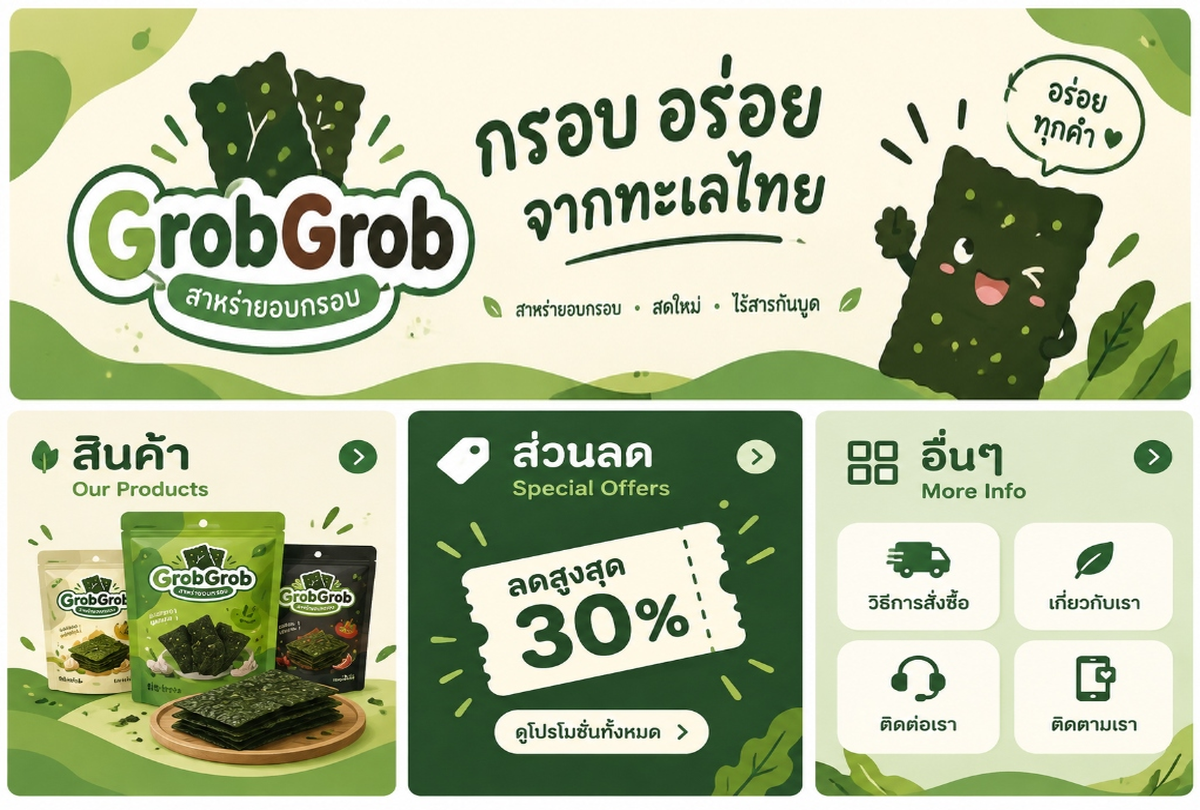
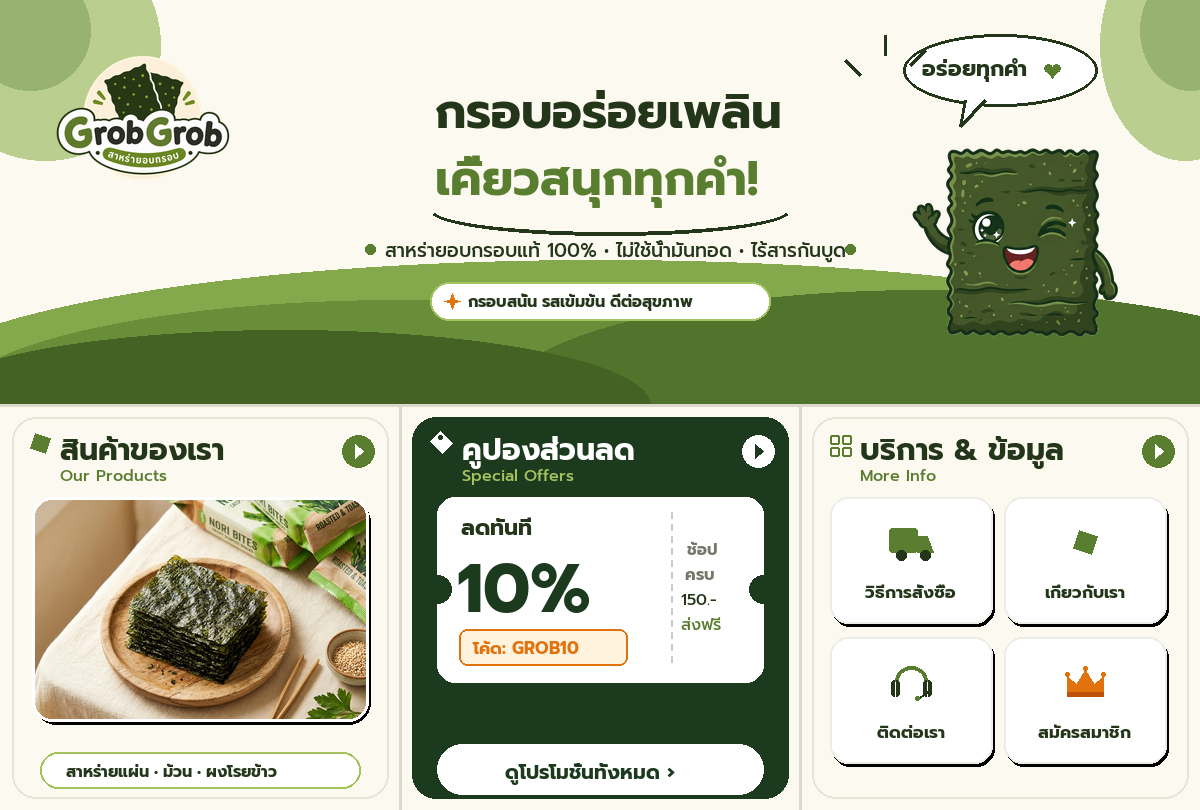
Create brand new LINE Rich Menu 1200x810 from scratch matching website slogans and organic mascot theme

diff --git a/build_richmenu.py b/build_richmenu.py
@@ -1,50 +1,320 @@
 import os
-from PIL import Image
+import math
+from PIL import Image, ImageDraw, ImageFont, ImageFilter, ImageOps
 
-def build_theme_rich_menu():
+def draw_vector_heart(draw, cx, cy, size, fill):
+    # Draw smooth vector heart
+    r = size // 2
+    draw.ellipse([cx - size, cy - r, cx, cy + r], fill=fill)
+    draw.ellipse([cx, cy - r, cx + size, cy + r], fill=fill)
+    draw.polygon([(cx - size + 2, cy + 2), (cx + size - 2, cy + 2), (cx, cy + size + 2)], fill=fill)
+
+def draw_vector_sparkle(draw, cx, cy, size, fill):
+    # Draw 4-point sparkle star
+    draw.polygon([
+        (cx, cy - size), (cx + size//4, cy - size//4),
+        (cx + size, cy), (cx + size//4, cy + size//4),
+        (cx, cy + size), (cx - size//4, cy + size//4),
+        (cx - size, cy), (cx - size//4, cy - size//4)
+    ], fill=fill)
+
+def draw_smooth_leaf(draw, cx, cy, size, fill):
+    # Beautiful organic leaf
+    draw.polygon([
+        (cx - size, cy + size//2), (cx - size//2, cy - size),
+        (cx + size, cy - size//2), (cx + size//2, cy + size)
+    ], fill=fill)
+    draw.ellipse([cx - size//2, cy - size//2, cx + size//2, cy + size//2], fill=fill)
+
+def build_scratch_rich_menu():
     W, H = 1200, 810
     SPLIT_Y = 405
     
-    ref_path = r"C:\Users\noobz\.gemini\antigravity-ide\brain\afa6fe71-4bfc-426f-acff-7b1e4c3b699b\.user_uploaded\media_1790221043604.jpg"
-    if not os.path.exists(ref_path):
-        print(f"Reference image not found at {ref_path}")
-        return
+    # Palette (Warm Organic Seaweed Aesthetic)
+    C_CREAM_BG     = (252, 249, 240, 255)  # #FCF9F0 Warm paper cream
+    C_WHITE        = (255, 255, 255, 255)
+    C_DARK_OLIVE   = (35, 54, 25, 255)     # #233619 Primary deep text
+    C_DEEP_FOREST  = (28, 58, 30, 255)     # #1C3A1E Deep green for Box C
+    C_LEAF_GREEN   = (90, 126, 48, 255)    # #5A7E30 Vibrant leaf green
+    C_LIGHT_GREEN  = (164, 195, 94, 255)   # #A4C35E Accent green
+    C_SOFT_GREEN   = (230, 242, 212, 255)  # #E6F2D4 Soft green fill
+    C_AMBER        = (225, 115, 15, 255)   # #E1730F Promo orange
+    C_AMBER_SOFT   = (255, 243, 222, 255)
+    C_MUTED        = (115, 120, 105, 255)
+    C_DIVIDER      = (220, 216, 204, 255)
+
+    # Fonts
+    font_dir = "temp_fonts"
+    f_hero_title = ImageFont.truetype(os.path.join(font_dir, "Prompt-Bold.ttf"), 48)
+    f_hero_sub   = ImageFont.truetype(os.path.join(font_dir, "Prompt-Medium.ttf"), 19)
+    f_bubble     = ImageFont.truetype(os.path.join(font_dir, "Prompt-Bold.ttf"), 22)
+    
+    f_card_title = ImageFont.truetype(os.path.join(font_dir, "Prompt-Bold.ttf"), 30)
+    f_card_sub   = ImageFont.truetype(os.path.join(font_dir, "Prompt-Medium.ttf"), 16)
+    f_btn        = ImageFont.truetype(os.path.join(font_dir, "Prompt-Bold.ttf"), 20)
+    f_badge      = ImageFont.truetype(os.path.join(font_dir, "Prompt-Bold.ttf"), 16)
+    f_tile_lbl   = ImageFont.truetype(os.path.join(font_dir, "Prompt-Bold.ttf"), 17)
+    
+    f_ticket_big = ImageFont.truetype(os.path.join(font_dir, "Prompt-Bold.ttf"), 68)
+    f_ticket_md  = ImageFont.truetype(os.path.join(font_dir, "Prompt-Bold.ttf"), 22)
+
+    # Base Canvas
+    canvas = Image.new("RGBA", (W, H), C_CREAM_BG)
+    draw = ImageDraw.Draw(canvas)
+
+    # =============================================================
+    # 1. SECTION A: Top Banner (1200 x 405)
+    # =============================================================
+    top_bg = Image.new("RGBA", (W, SPLIT_Y), (0, 0, 0, 0))
+    d_top = ImageDraw.Draw(top_bg)
+
+    # Rolling organic green hills at bottom of Section A
+    d_top.ellipse([-100, 260, 1300, 520], fill=(132, 168, 76, 255))
+    d_top.ellipse([-50, 300, 850, 510], fill=(105, 142, 58, 255))
+    d_top.ellipse([500, 290, 1350, 510], fill=(80, 116, 44, 255))
+    d_top.ellipse([-80, 330, 650, 480], fill=(68, 98, 36, 255))
+
+    # Corner decorative leaves / foliage blobs
+    d_top.ellipse([-70, -70, 160, 160], fill=(145, 180, 85, 160))
+    d_top.ellipse([-30, -30, 90, 90], fill=(110, 150, 60, 180))
+    d_top.ellipse([1100, -70, 1270, 160], fill=(145, 180, 85, 160))
+    d_top.ellipse([1140, -30, 1240, 90], fill=(110, 150, 60, 180))
+
+    canvas.alpha_composite(top_bg, (0, 0))
+    draw = ImageDraw.Draw(canvas)
+
+    # --- Official GrobGrob Logo on the Left ---
+    logo_path = "assets/logo.png"
+    if os.path.exists(logo_path):
+        logo_im = Image.open(logo_path).convert("RGBA")
+        bbox = logo_im.getbbox()
+        if bbox:
+            logo_im = logo_im.crop(bbox)
+        lw, lh = logo_im.size
+        target_lh = 135
+        target_lw = int(lw * (target_lh / lh))
+        logo_im = logo_im.resize((target_lw, target_lh), Image.Resampling.LANCZOS)
+        canvas.paste(logo_im, (45, 50), logo_im)
+
+    # --- Slogans in Center (Exact from Website) ---
+    draw.text((435, 75), "กรอบอร่อยเพลิน", font=f_hero_title, fill=C_DARK_OLIVE)
+    draw.text((435, 142), "เคี้ยวสนุกทุกคำ!", font=f_hero_title, fill=C_LEAF_GREEN)
+
+    # Decorative brush underline under slogan
+    draw.arc([430, 185, 790, 235], start=10, end=170, fill=C_DARK_OLIVE, width=4)
+
+    # Website USP Tagline
+    draw.text((385, 236), "สาหร่ายอบกรอบแท้ 100% • ไม่ใช้น้ำมันทอด • ไร้สารกันบูด", font=f_hero_sub, fill=C_DARK_OLIVE)
+    draw.ellipse([365, 244, 375, 254], fill=C_LEAF_GREEN)
+    draw.ellipse([845, 244, 855, 254], fill=C_LEAF_GREEN)
+
+    # Feature Pill Badge
+    badge_w, badge_h = 340, 38
+    badge_x, badge_y = 430, 282
+    draw.rounded_rectangle([badge_x, badge_y, badge_x + badge_w, badge_y + badge_h], radius=19, fill=C_WHITE, outline=C_LIGHT_GREEN, width=2)
+    draw_vector_sparkle(draw, badge_x + 22, badge_y + 19, 8, C_AMBER)
+    draw.text((badge_x + 38, badge_y + 7), "กรอบสนั่น รสเข้มข้น ดีต่อสุขภาพ", font=f_badge, fill=C_DARK_OLIVE)
+
+    # --- Mascot on the Right ---
+    mascot_path = "assets/mascot_transparent.png"
+    if os.path.exists(mascot_path):
+        m_im = Image.open(mascot_path).convert("RGBA")
+        mw, mh = m_im.size
+        target_mh = 275
+        target_mw = int(mw * (target_mh / mh))
+        m_im = m_im.resize((target_mw, target_mh), Image.Resampling.LANCZOS)
+        canvas.paste(m_im, (880, 105), m_im)
+
+    # --- Speech Bubble above Mascot ---
+    b_cx, b_cy = 1000, 70
+    bw, bh = 195, 72
+    bubble_layer = Image.new("RGBA", (W, SPLIT_Y), (0, 0, 0, 0))
+    d_b = ImageDraw.Draw(bubble_layer)
+    # Oval body
+    d_b.ellipse([b_cx - bw//2, b_cy - bh//2, b_cx + bw//2, b_cy + bh//2], fill=C_WHITE, outline=C_DARK_OLIVE, width=3)
+    # Tail pointing down to mascot
+    d_b.polygon([(965, 100), (985, 100), (960, 126)], fill=C_WHITE)
+    d_b.line([(965, 100), (960, 126)], fill=C_DARK_OLIVE, width=3)
+    d_b.line([(985, 100), (960, 126)], fill=C_DARK_OLIVE, width=3)
+    # Speech bubble text + vector green heart
+    d_b.text((922, 52), "อร่อยทุกคำ", font=f_bubble, fill=C_DARK_OLIVE)
+    draw_vector_heart(d_b, 1052, 68, 8, C_LEAF_GREEN)
+    
+    # Sparkle lines around mascot
+    for sx1, sy1, sx2, sy2 in [(860, 75, 845, 60), (885, 55, 885, 35), (910, 65, 925, 50)]:
+        d_b.line([(sx1, sy1), (sx2, sy2)], fill=C_DARK_OLIVE, width=3)
         
-    ref = Image.open(ref_path)
-    
-    # Base canvas (1200 x 810 px)
-    canvas = Image.new("RGB", (W, H), (255, 255, 255))
-    
-    # 1. TOP BANNER A (1200 x 405)
-    # Full top area with logo, curved title, seaweed mascot and speech bubble
-    top = ref.crop((0, 0, 1024, 296))
-    top_resized = top.resize((1200, SPLIT_Y), Image.Resampling.LANCZOS)
-    canvas.paste(top_resized, (0, 0))
-    
-    # 2. BOTTOM ROW CARDS: B, C, D (400 x 405 each)
-    # B: สินค้า / Our Products (0 to 400, 405 to 810)
-    b = ref.crop((2, 298, 342, 689)).resize((400, 405), Image.Resampling.LANCZOS)
-    canvas.paste(b, (0, SPLIT_Y))
-    
-    # C: ส่วนลด / Special Offers (400 to 800, 405 to 810)
-    c = ref.crop((342, 298, 682, 689)).resize((400, 405), Image.Resampling.LANCZOS)
-    canvas.paste(c, (400, SPLIT_Y))
-    
-    # D: อื่นๆ / More Info (800 to 1200, 405 to 810)
-    d = ref.crop((682, 298, 1022, 689)).resize((400, 405), Image.Resampling.LANCZOS)
-    canvas.paste(d, (800, SPLIT_Y))
-    
-    # Save output files
+    canvas.alpha_composite(bubble_layer, (0, 0))
+    draw = ImageDraw.Draw(canvas)
+
+    # =============================================================
+    # 2. SECTION B: "สินค้าของเรา" (400 x 405, x: 0..400, y: 405..810)
+    # =============================================================
+    b_card_pad = 12
+    bx1, by1 = b_card_pad, SPLIT_Y + b_card_pad
+    bx2, by2 = 400 - b_card_pad, H - b_card_pad
+    draw.rounded_rectangle([bx1, by1, bx2, by2], radius=24, fill=C_CREAM_BG, outline=(230, 226, 212, 255), width=2)
+
+    # Header Row in B
+    draw_smooth_leaf(draw, bx1 + 28, by1 + 26, 10, C_LEAF_GREEN)
+    draw.text((bx1 + 48, by1 + 10), "สินค้าของเรา", font=f_card_title, fill=C_DARK_OLIVE)
+    draw.text((bx1 + 48, by1 + 46), "Our Products", font=f_card_sub, fill=C_LEAF_GREEN)
+    # Circular green arrow button
+    arrow_bx, arrow_by = bx2 - 46, by1 + 18
+    draw.ellipse([arrow_bx, arrow_by, arrow_bx + 32, arrow_by + 32], fill=C_LEAF_GREEN)
+    draw.polygon([(arrow_bx + 13, arrow_by + 9), (arrow_bx + 21, arrow_by + 16), (arrow_bx + 13, arrow_by + 23)], fill=C_WHITE)
+
+    # Visual in B: Seaweed dish
+    dish_path = "assets/seaweed_dish.jpg"
+    if os.path.exists(dish_path):
+        dish_im = Image.open(dish_path).convert("RGBA")
+        dish_w, dish_h = 336, 224
+        dish_resized = ImageOps.fit(dish_im, (dish_w, dish_h), Image.Resampling.LANCZOS)
+        mask_d = Image.new("L", (dish_w, dish_h), 0)
+        ImageDraw.Draw(mask_d).rounded_rectangle([0, 0, dish_w, dish_h], radius=20, fill=255)
+        
+        dish_x = (400 - dish_w) // 2
+        dish_y = by1 + 80
+        draw.rounded_rectangle([dish_x + 2, dish_y + 3, dish_x + dish_w + 2, dish_y + dish_h + 3], radius=22, fill=(0, 0, 0, 20))
+        canvas.paste(dish_resized, (dish_x, dish_y), mask_d)
+        draw.rounded_rectangle([dish_x, dish_y, dish_x + dish_w, dish_y + dish_h], radius=20, outline=C_WHITE, width=3)
+
+    # Bottom Tag in B
+    tag_b_w = 320
+    tag_b_x = (400 - tag_b_w) // 2
+    tag_b_y = by2 - 46
+    draw.rounded_rectangle([tag_b_x, tag_b_y, tag_b_x + tag_b_w, tag_b_y + 36], radius=18, fill=C_WHITE, outline=C_LIGHT_GREEN, width=2)
+    draw.text((tag_b_x + 26, tag_b_y + 7), "สาหร่ายแผ่น • ม้วน • ผงโรยข้าว", font=f_badge, fill=C_DARK_OLIVE)
+
+    # =============================================================
+    # 3. SECTION C: "คูปองส่วนลด" (400 x 405, x: 400..800, y: 405..810)
+    # =============================================================
+    cx1, cy1 = 400 + b_card_pad, SPLIT_Y + b_card_pad
+    cx2, cy2 = 800 - b_card_pad, H - b_card_pad
+    draw.rounded_rectangle([cx1, cy1, cx2, cy2], radius=24, fill=C_DEEP_FOREST)
+
+    # Header Row in C
+    draw.polygon([(cx1 + 18, cy1 + 24), (cx1 + 28, cy1 + 14), (cx1 + 40, cy1 + 26), (cx1 + 30, cy1 + 36)], fill=C_WHITE)
+    draw.ellipse([cx1 + 26, cy1 + 18, cx1 + 30, cy1 + 22], fill=C_DEEP_FOREST)
+    draw.text((cx1 + 50, cy1 + 10), "คูปองส่วนลด", font=f_card_title, fill=C_WHITE)
+    draw.text((cx1 + 50, cy1 + 46), "Special Offers", font=f_card_sub, fill=C_LIGHT_GREEN)
+    # Circular white arrow button
+    c_arrow_x, c_arrow_y = cx2 - 46, cy1 + 18
+    draw.ellipse([c_arrow_x, c_arrow_y, c_arrow_x + 32, c_arrow_y + 32], fill=C_WHITE)
+    draw.polygon([(c_arrow_x + 13, c_arrow_y + 9), (c_arrow_x + 21, c_arrow_y + 16), (c_arrow_x + 13, c_arrow_y + 23)], fill=C_DEEP_FOREST)
+
+    # White Coupon Ticket (Center)
+    t_w, t_h = 326, 185
+    t_x = 400 + (400 - t_w) // 2
+    t_y = cy1 + 80
+    draw.rounded_rectangle([t_x, t_y, t_x + t_w, t_y + t_h], radius=18, fill=C_WHITE)
+    # Semicircular cutouts
+    draw.ellipse([t_x - 14, t_y + t_h//2 - 14, t_x + 14, t_y + t_h//2 + 14], fill=C_DEEP_FOREST)
+    draw.ellipse([t_x + t_w - 14, t_y + t_h//2 - 14, t_x + t_w + 14, t_y + t_h//2 + 14], fill=C_DEEP_FOREST)
+    # Dashed divider line
+    dash_x = t_x + 234
+    for dy in range(t_y + 15, t_y + t_h - 15, 12):
+        draw.line([(dash_x, dy), (dash_x, dy + 6)], fill=(200, 205, 195, 255), width=2)
+
+    # Ticket Content
+    draw.text((t_x + 24, t_y + 14), "ลดทันที", font=f_ticket_md, fill=C_DARK_OLIVE)
+    draw.text((t_x + 20, t_y + 40), "10%", font=f_ticket_big, fill=C_DEEP_FOREST)
+    # Code Box inside ticket
+    code_pill_w, code_pill_h = 168, 36
+    draw.rounded_rectangle([t_x + 22, t_y + 132, t_x + 22 + code_pill_w, t_y + 132 + code_pill_h], radius=8, fill=C_AMBER_SOFT, outline=C_AMBER, width=2)
+    draw.text((t_x + 36, t_y + 138), "โค้ด: GROB10", font=f_tile_lbl, fill=C_AMBER)
+    # Right side of ticket
+    draw.text((dash_x + 16, t_y + 40), "ช้อป", font=f_badge, fill=C_MUTED)
+    draw.text((dash_x + 14, t_y + 65), "ครบ", font=f_badge, fill=C_MUTED)
+    draw.text((dash_x + 10, t_y + 90), "150.-", font=f_card_sub, fill=C_DARK_OLIVE)
+    draw.text((dash_x + 10, t_y + 115), "ส่งฟรี", font=f_card_sub, fill=C_LEAF_GREEN)
+
+    # Bottom White Pill CTA Button in C
+    c_btn_w = 326
+    c_btn_h = 50
+    c_btn_x = 400 + (400 - c_btn_w) // 2
+    c_btn_y = by2 - 54
+    draw.rounded_rectangle([c_btn_x, c_btn_y, c_btn_x + c_btn_w, c_btn_y + c_btn_h], radius=25, fill=C_WHITE)
+    draw.text((c_btn_x + 68, c_btn_y + 13), "ดูโปรโมชั่นทั้งหมด ›", font=f_btn, fill=C_DEEP_FOREST)
+
+    # =============================================================
+    # 4. SECTION D: "อื่นๆ / More Info" (400 x 405, x: 800..1200, y: 405..810)
+    # =============================================================
+    dx1, dy1 = 800 + b_card_pad, SPLIT_Y + b_card_pad
+    dx2, dy2 = 1200 - b_card_pad, H - b_card_pad
+    draw.rounded_rectangle([dx1, dy1, dx2, dy2], radius=24, fill=C_CREAM_BG, outline=(230, 226, 212, 255), width=2)
+
+    # Header Row in D
+    grid_ix, grid_iy = dx1 + 18, dy1 + 18
+    for gx in [grid_ix, grid_ix + 12]:
+        for gy in [grid_iy, grid_iy + 12]:
+            draw.rounded_rectangle([gx, gy, gx + 9, gy + 9], radius=2, outline=C_LEAF_GREEN, width=2)
+    draw.text((dx1 + 48, dy1 + 10), "บริการ & ข้อมูล", font=f_card_title, fill=C_DARK_OLIVE)
+    draw.text((dx1 + 48, dy1 + 46), "More Info", font=f_card_sub, fill=C_LEAF_GREEN)
+    d_arrow_x, d_arrow_y = dx2 - 46, dy1 + 18
+    draw.ellipse([d_arrow_x, d_arrow_y, d_arrow_x + 32, d_arrow_y + 32], fill=C_LEAF_GREEN)
+    draw.polygon([(d_arrow_x + 13, d_arrow_y + 9), (d_arrow_x + 21, d_arrow_y + 16), (d_arrow_x + 13, d_arrow_y + 23)], fill=C_WHITE)
+
+    # 4 White Rounded Tiles (2x2 Grid)
+    tile_w, tile_h = 162, 126
+    t_gap_x, t_gap_y = 12, 14
+    start_tx = dx1 + 18
+    start_ty = dy1 + 80
+
+    tiles_data = [
+        {"icon": "truck", "title": "วิธีการสั่งซื้อ", "col": 0, "row": 0},
+        {"icon": "leaf",  "title": "เกี่ยวกับเรา",    "col": 1, "row": 0},
+        {"icon": "headset","title": "ติดต่อเรา",     "col": 0, "row": 1},
+        {"icon": "member", "title": "สมัครสมาชิก",   "col": 1, "row": 1}
+    ]
+
+    for item in tiles_data:
+        ix = start_tx + item["col"] * (tile_w + t_gap_x)
+        iy = start_ty + item["row"] * (tile_h + t_gap_y)
+        
+        # Shadow & white tile body
+        draw.rounded_rectangle([ix + 2, iy + 3, ix + tile_w + 2, iy + tile_h + 3], radius=18, fill=(0, 0, 0, 12))
+        draw.rounded_rectangle([ix, iy, ix + tile_w, iy + tile_h], radius=18, fill=C_WHITE, outline=(235, 238, 230, 255), width=2)
+        
+        icx, icy = ix + tile_w // 2, iy + 45
+        
+        if item["icon"] == "truck":
+            draw.rounded_rectangle([icx - 22, icy - 14, icx + 6, icy + 10], radius=3, fill=C_LEAF_GREEN)
+            draw.polygon([(icx + 6, icy - 6), (icx + 16, icy - 6), (icx + 22, icy + 10), (icx + 6, icy + 10)], fill=C_LEAF_GREEN)
+            draw.ellipse([icx - 15, icy + 8, icx - 5, icy + 18], fill=C_DARK_OLIVE)
+            draw.ellipse([icx + 9, icy + 8, icx + 19, icy + 18], fill=C_DARK_OLIVE)
+        elif item["icon"] == "leaf":
+            draw_smooth_leaf(draw, icx, icy, 12, C_LEAF_GREEN)
+        elif item["icon"] == "headset":
+            draw.arc([icx - 16, icy - 16, icx + 16, icy + 14], start=180, end=0, fill=C_LEAF_GREEN, width=4)
+            draw.rounded_rectangle([icx - 20, icy - 2, icx - 12, icy + 14], radius=3, fill=C_DARK_OLIVE)
+            draw.rounded_rectangle([icx + 12, icy - 2, icx + 20, icy + 14], radius=3, fill=C_DARK_OLIVE)
+            draw.line([(icx + 16, icy + 10), (icx + 8, icy + 16)], fill=C_DARK_OLIVE, width=2)
+            draw.ellipse([icx + 4, icy + 14, icx + 8, icy + 18], fill=C_LEAF_GREEN)
+        elif item["icon"] == "member":
+            draw.polygon([(icx - 18, icy + 12), (icx - 18, icy - 6), (icx - 9, icy + 2), (icx, icy - 12), (icx + 9, icy + 2), (icx + 18, icy - 6), (icx + 18, icy + 12)], fill=C_AMBER)
+            draw.ellipse([icx - 2, icy - 16, icx + 2, icy - 12], fill=C_AMBER)
+            draw.ellipse([icx - 20, icy - 10, icx - 16, icy - 6], fill=C_AMBER)
+            draw.ellipse([icx + 16, icy - 10, icx + 20, icy - 6], fill=C_AMBER)
+            draw.rectangle([icx - 18, icy + 10, icx + 18, icy + 14], fill=(190, 80, 10, 255))
+            
+        bbox = draw.textbbox((0, 0), item["title"], font=f_tile_lbl)
+        tw = bbox[2] - bbox[0]
+        draw.text((ix + (tile_w - tw) // 2, iy + 82), item["title"], font=f_tile_lbl, fill=C_DARK_OLIVE)
+
+    # Dividers between the 4 Main Areas
+    draw.line([(0, SPLIT_Y), (W, SPLIT_Y)], fill=C_DIVIDER, width=3)
+    draw.line([(400, SPLIT_Y), (400, H)], fill=C_DIVIDER, width=3)
+    draw.line([(800, SPLIT_Y), (800, H)], fill=C_DIVIDER, width=3)
+
+    # Save output
     output_png = "richmenu_1200x810.png"
     output_jpg = "richmenu_1200x810.jpg"
-    
-    canvas.save(output_png, quality=95)
-    canvas.save(output_jpg, quality=92, optimize=True)
-    canvas.save("assets/richmenu_1200x810.png", quality=95)
-    canvas.save("assets/richmenu_1200x810.jpg", quality=92, optimize=True)
-    
-    print(f"Generated {output_png} ({os.path.getsize(output_png)/1024:.1f} KB)")
-    print(f"Generated {output_jpg} ({os.path.getsize(output_jpg)/1024:.1f} KB)")
+    canvas.convert("RGB").save(output_png, quality=95)
+    canvas.convert("RGB").save(output_jpg, quality=92, optimize=True)
+    canvas.convert("RGB").save("assets/richmenu_1200x810.png", quality=95)
+    canvas.convert("RGB").save("assets/richmenu_1200x810.jpg", quality=92, optimize=True)
+    print("Done! Re-generated 100% fresh vector rich menu from scratch.")
 
 if __name__ == "__main__":
-    build_theme_rich_menu()
+    build_scratch_rich_menu()
